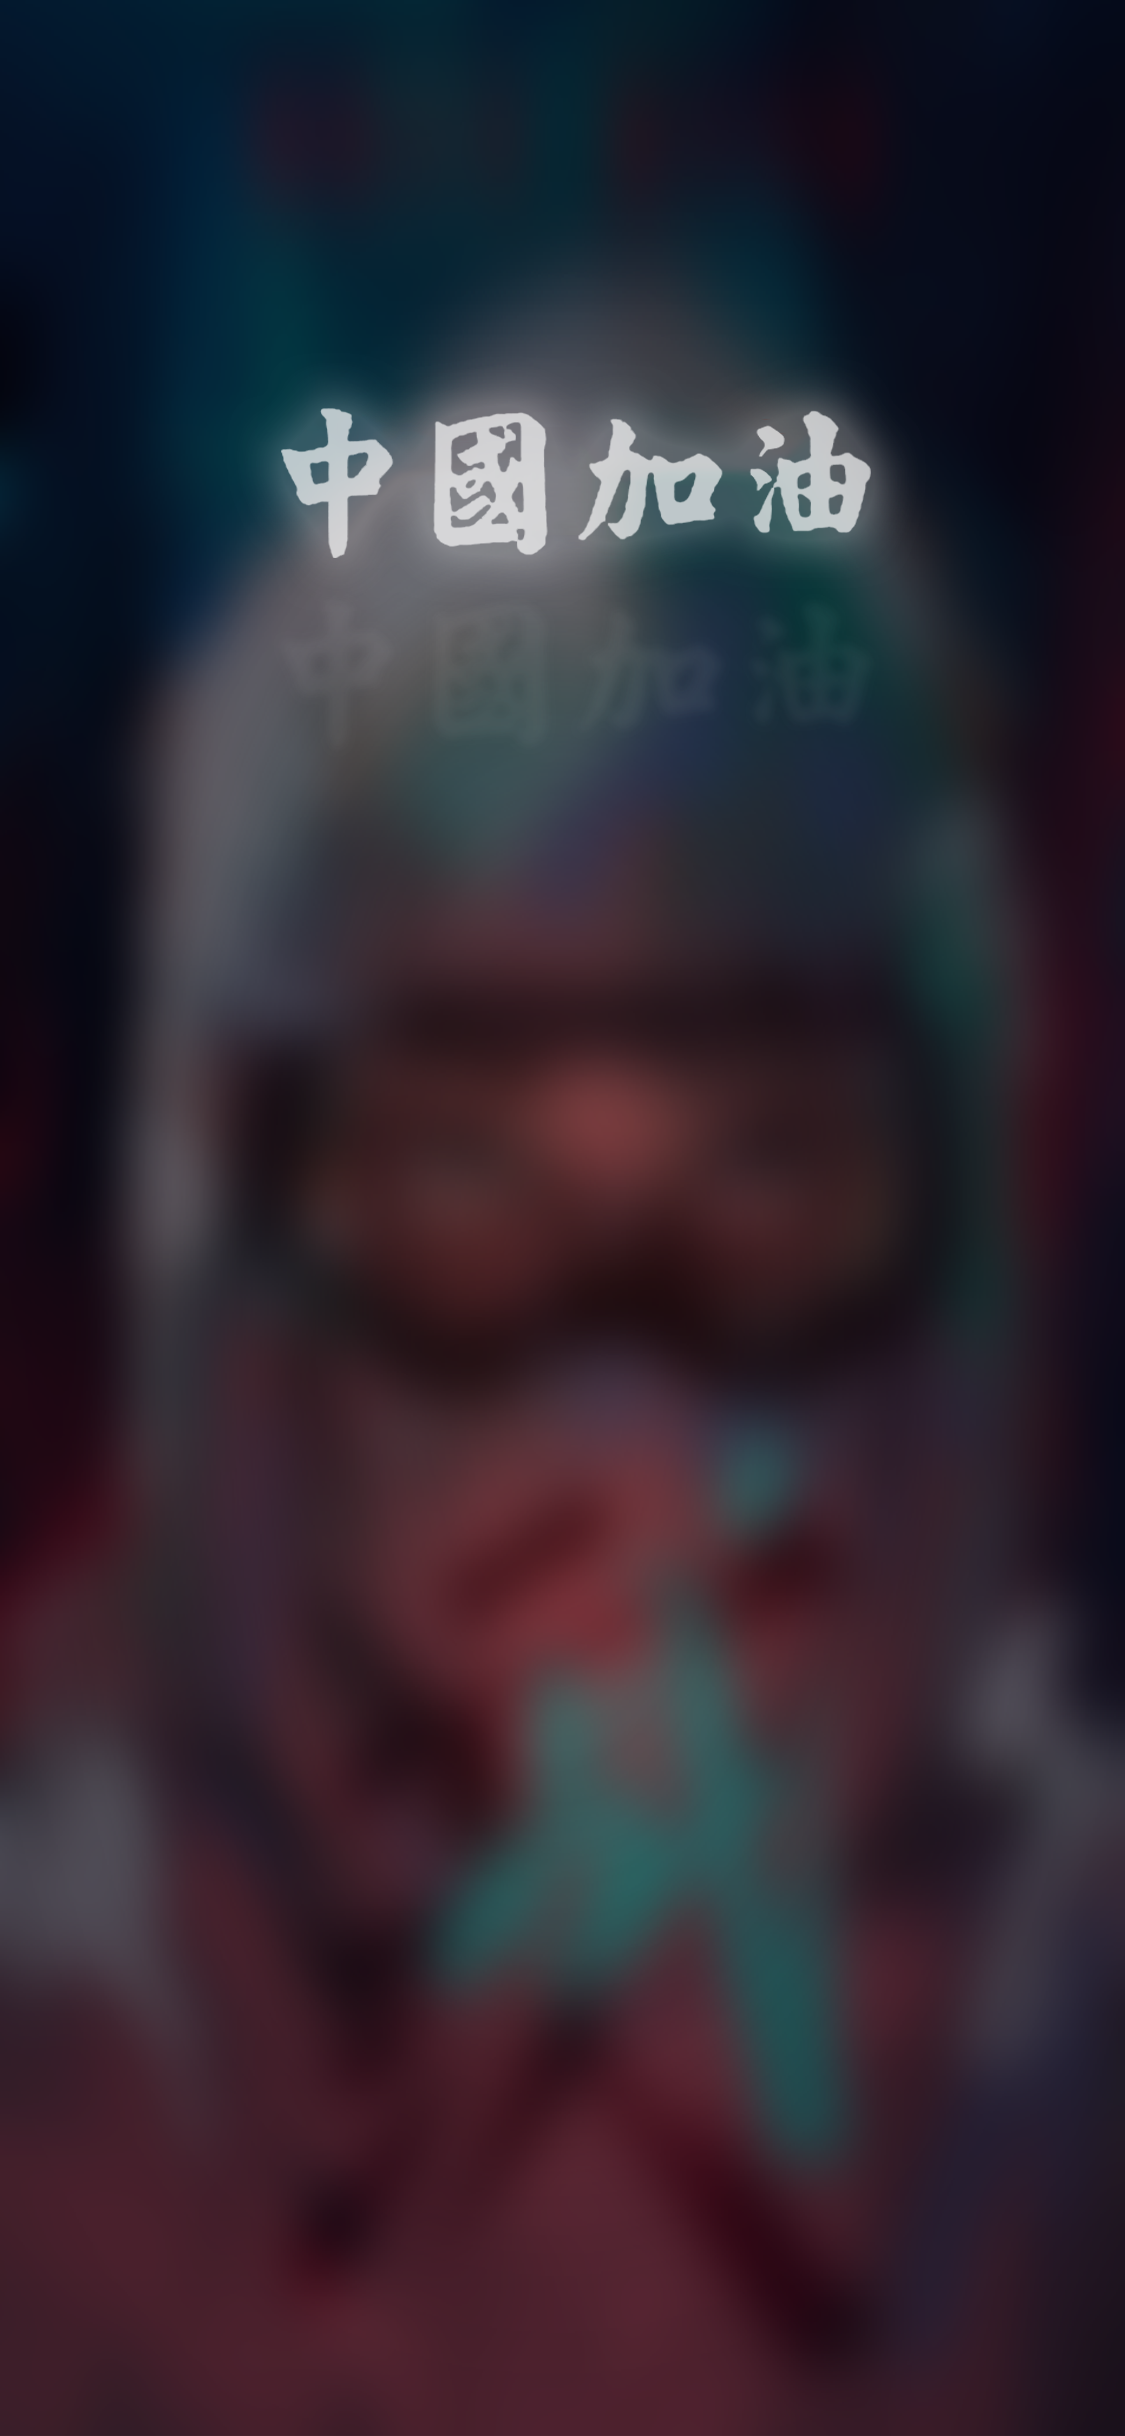
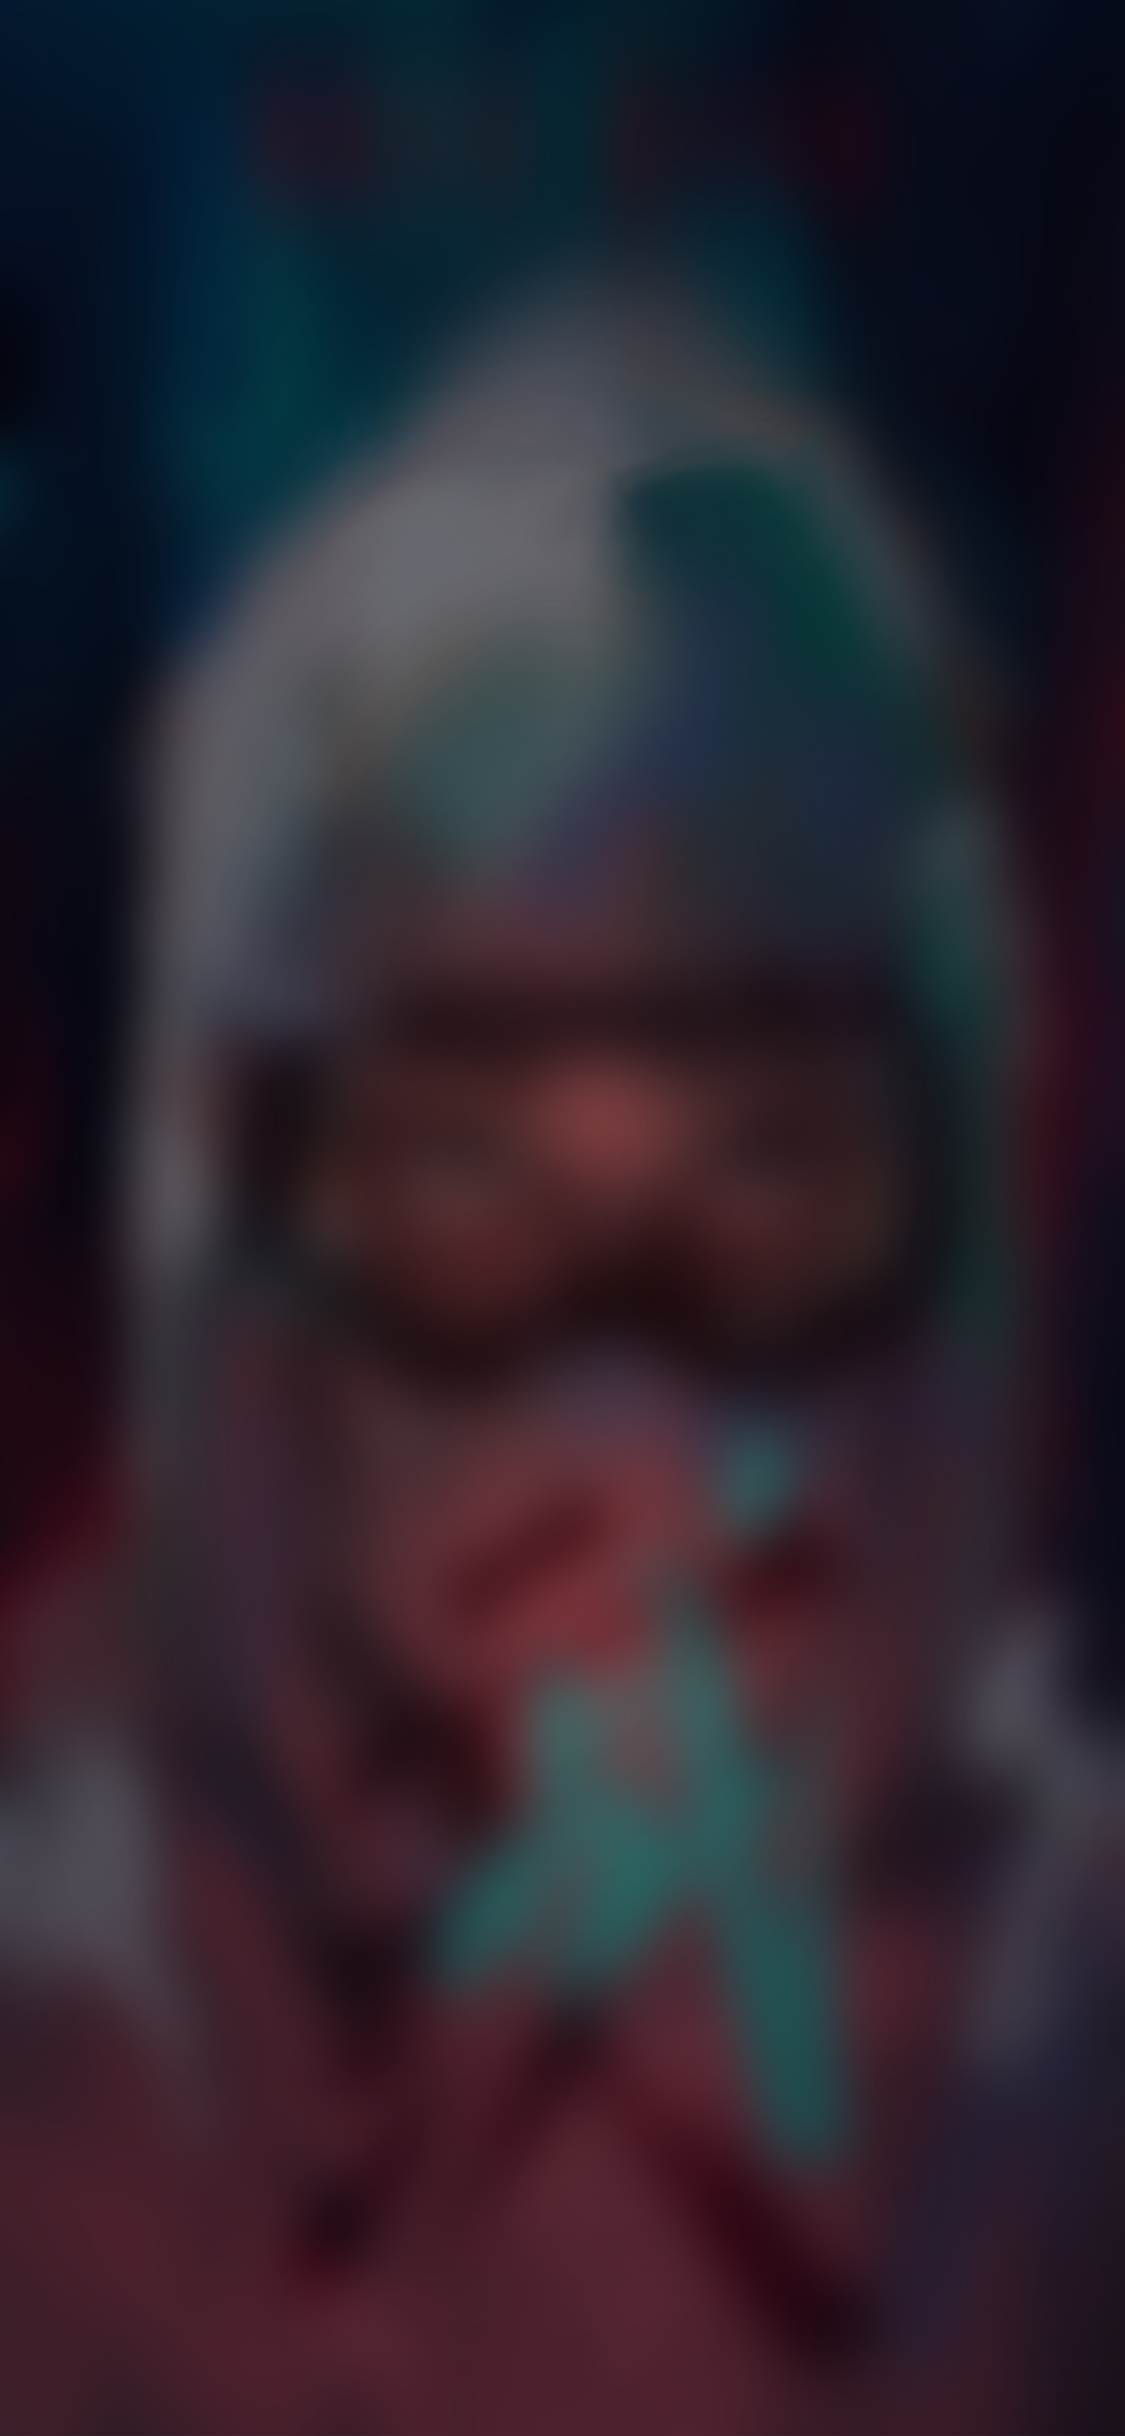
更新ps素材，删除无用素材，quiz和index主界面UI优化，动画更改，适应各种机型 -- Cayman

Changed region(s): [[0.2178, 0.156, 0.8089, 0.2496]]

diff --git a/前端/uni-app/pages/quiz/quiz.vue b/前端/uni-app/pages/quiz/quiz.vue
@@ -12,11 +12,26 @@
 		
 			<!--欢迎页面-->
 		<view class="welcome" v-if="showWelcome==true" :style="{'height': welcomeHeight}" >           
-			<view class="flex align-center" :style="{'height': welcomeHeight}" style="background:url('/h5/static/text-quiz.png') no-repeat center; background-size:cover; " >
+			<view class="flex align-center" :style="{'height': welcomeHeight}" style="background:url('/h5/static/Quiz_BG.png') no-repeat center; background-size:cover; " >
 				<!-- 背景设置 -->
 				<!-- <image src="/static/text-quiz.png" mode="aspectFit" style="width:100%;height:100%; "  :style="[{animation: 'show 1s 1'}]"></image> -->
 				<!-- 背景设置 -->
-				<image src="/static/text-button.png" @click="showContent"  mode="aspectFit" style="width: 58%;height:9%; left:calc(160rpx); top: calc(375rpx); border:#000 solid 0px;" :style="[{animation: 'show 1s 1'}]"></image>
+				<view>
+					<image src="/static/slogan.png" mode="aspectFit" style="width: 90%;height:6%; position:absolute; left:calc(44rpx); top: calc(150rpx); border:#000 solid 0px;" :style="[{animation: 'show 1s 1'}]"></image>
+				</view>
+				<view>
+					<image src="/static/quiz_name.png" mode="aspectFit" style="width: 90%;height:10%; position:absolute; left:calc(44rpx); top: calc(420rpx); border:#000 solid 0px;" :style="[{animation: 'show 10s 100 alternate'}]"></image>
+				</view>
+				<view>
+					<image src="/static/quiz_logo.png" mode="aspectFit" style="width: 90%;height:16%; position:absolute; left:calc(40rpx); top: calc(760rpx); border:#000 solid 0px;" :style="[{animation: 'show 1s 1'}]"></image>
+				</view>
+				<view>
+					<!-- <image src="/static/text-button.png" @click="showContent"  mode="aspectFit" style="width: 58%;height:9%; left:calc(160rpx); top: calc(375rpx); border:#000 solid 0px;" :style="[{animation: 'show 1s 1'}]"></image> -->
+					<image src="/static/text-button.png" @click="showContent" mode="aspectFit" style="width: 50%;height:8%; position:absolute; left:calc(198rpx); top: calc(1180rpx); border:#000 solid 0px;" :style="[{animation: 'show 1s 1'}]"></image>
+				</view>
+				<view>
+					<image src="/static/copyright.png" mode="aspectFit" style="width: 60%;height:2%; position:absolute; left:calc(288rpx); top: calc(1490rpx); border:#000 solid 0px;" :style="[{animation: 'show 1s 1'}]"></image>
+				</view>
 			</view>	
 			
 			<!-- <view :style="[{animation: 'show 1s 1'}]"> -->

diff --git a/前端/uni-app/pages/index/index.vue b/前端/uni-app/pages/index/index.vue
@@ -6,7 +6,12 @@
 				<uni-fab ref="fab" :pattern="pattern" :horizontal="horizontal" :vertical="vertical" :direction="direction"  @fabClick="showDrawer" Size="18px" Height="35px" Icon="send"/>
 				<view :style="{'height':height}" style="background:url('/h5/static/Search_BG.png') no-repeat center; background-size:cover; " >
 					<!-- <image src="/static/Search_BG.png" mode="aspectFit" style="width:100%;height:100%; "  :style="[{animation: 'show 1s 1'}]"></image> -->
-					<image src="/static/Search_Button.png" @click="showContent();" mode="aspectFit" style="width: 90%;height:17%; position:absolute; left:calc(44rpx); top: calc(650rpx); border:#000 solid 0px;" :style="[{animation: 'show 1s 1'}]"></image>
+					<view>
+						<image src="/static/Search_CNJY.png" @click="showContent();" mode="aspectFit" style="width: 90%;height:17%; position:absolute; left:calc(44rpx); top: calc(180rpx); border:#000 solid 0px;" :style="[{animation: 'show 10s 100 alternate'}]"></image>
+					</view>
+					<view>
+						<image src="/static/Search_Button.png" @click="showContent();" mode="aspectFit" style="width: 90%;height:17%; position:absolute; left:calc(44rpx); top: calc(650rpx); border:#000 solid 0px;" :style="[{animation: 'show 1s 1'}]"></image>
+					</view>
 				</view>
 			</scroll-view>
 			
@@ -60,7 +65,7 @@
 		
 		<!--搜索栏-->
 		<view v-if="isShowContent">
-			<view class="search-box nav fixed" style="background-color: #ffffff;box-shadow:none" :style="{'width':width}">
+			<view class="search-box nav fixed" style="background-color: #ffffff; box-shadow:none" :style="{'width':width}">
 				<mSearch ref="input" id="search-box" class="mSearch-input-box" :mode="2" button="inside" :placeholder="defaultKeyword" @search="doSearch" @input="inputChange" @confirm="doSearch(false)"  v-model="keyword" @getFocus="showKeywordList" @return="hideContent"></mSearch>
 			</view>
 			
